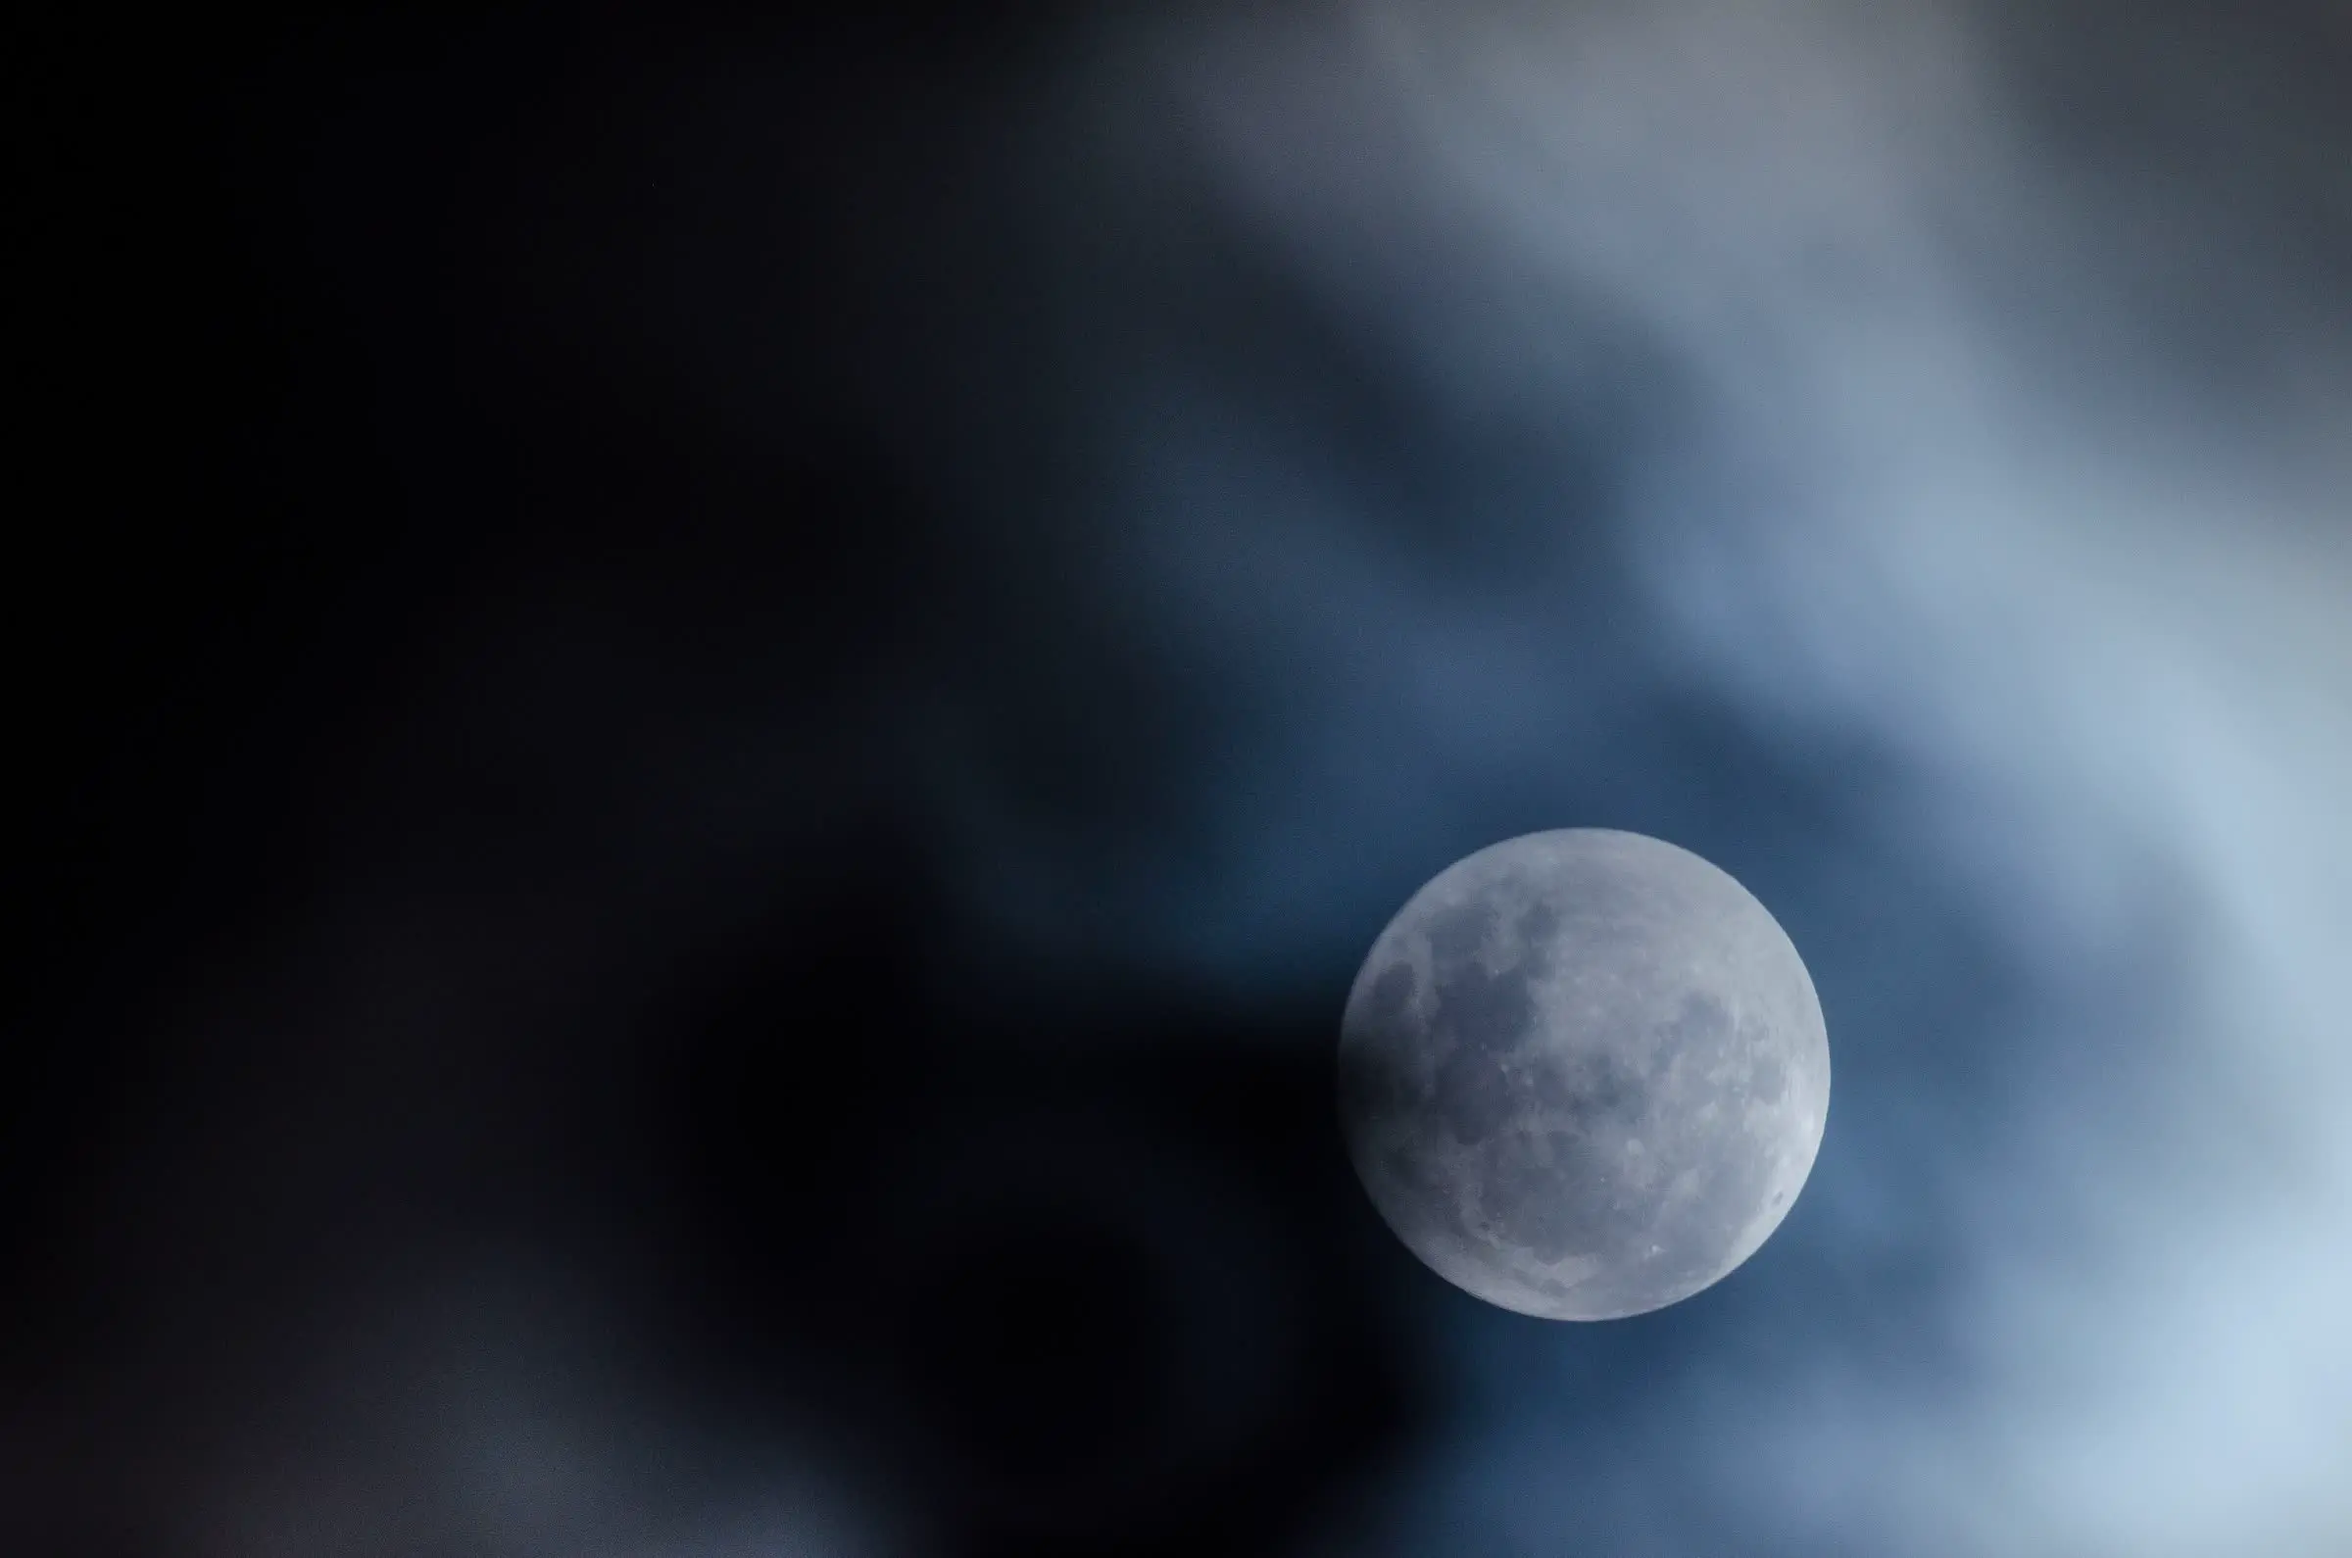
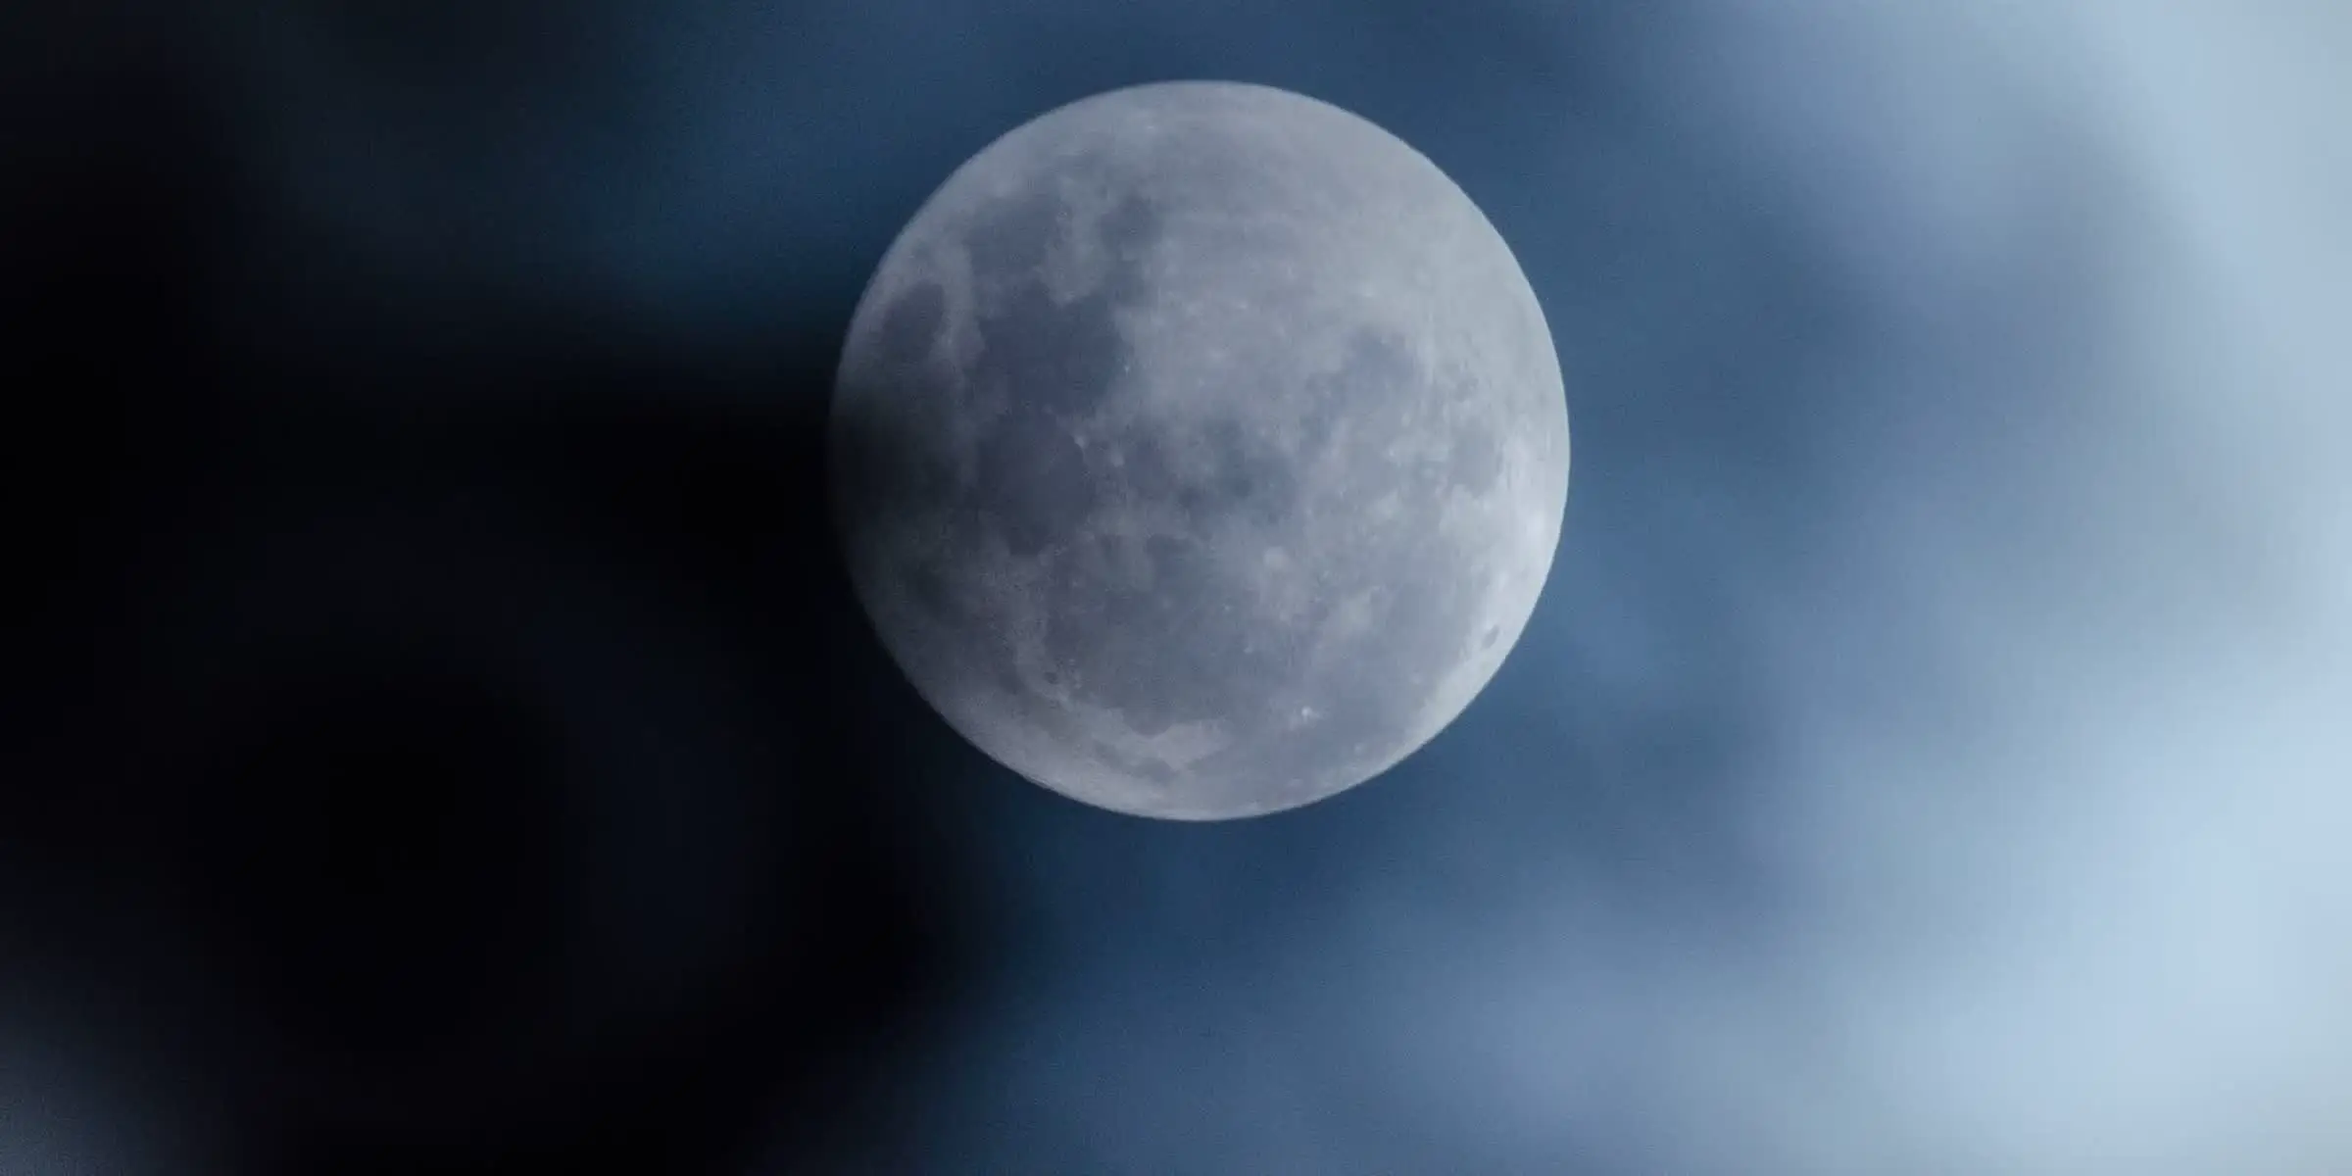
Reframe the night-sky band so the full moon stays visible
Crop the CC0 photo around the moon and clouds, and lighten the
flat overlay so the desktop band is not a black strip.

diff --git a/nollaushetki/index.html b/nollaushetki/index.html
@@ -141,9 +141,9 @@
   .tk-veil { position: absolute; inset: 0; }
   .tk-sky { z-index: 0; }
   .tk-sky picture,
-  .tk-sky img { display: block; width: 100%; height: 100%; }
-  .tk-sky img { object-fit: cover; object-position: 70% 55%; }
-  .tk-veil { z-index: 1; background: rgba(8, 12, 22, 0.42); }
+  .tk-sky img { display: block; width: 100%; height: 100%; max-width: none; }
+  .tk-sky img { object-fit: cover; object-position: 58% 42%; }
+  .tk-veil { z-index: 1; background: rgba(8, 12, 22, 0.28); }
   .tk-wrap {
     position: relative;
     z-index: 2;
@@ -256,7 +256,7 @@
   <div class="tk-sky" aria-hidden="true">
     <picture>
       <source type="image/webp" srcset="/kuvat/taysikuu-yo.webp">
-      <img src="/kuvat/taysikuu-yo.jpg" alt="" width="2400" height="1590" decoding="async">
+      <img src="/kuvat/taysikuu-yo.jpg" alt="" width="2400" height="1200" decoding="async">
     </picture>
   </div>
   <div class="tk-veil" aria-hidden="true"></div>

diff --git a/index.html b/index.html
@@ -224,9 +224,9 @@
   .tk-veil { position: absolute; inset: 0; }
   .tk-sky { z-index: 0; }
   .tk-sky picture,
-  .tk-sky img { display: block; width: 100%; height: 100%; }
-  .tk-sky img { object-fit: cover; object-position: 70% 55%; }
-  .tk-veil { z-index: 1; background: rgba(8, 12, 22, 0.42); }
+  .tk-sky img { display: block; width: 100%; height: 100%; max-width: none; }
+  .tk-sky img { object-fit: cover; object-position: 58% 42%; }
+  .tk-veil { z-index: 1; background: rgba(8, 12, 22, 0.28); }
   .tk-wrap {
     position: relative;
     z-index: 2;
@@ -578,7 +578,7 @@
   <div class="tk-sky" aria-hidden="true">
     <picture>
       <source type="image/webp" srcset="kuvat/taysikuu-yo.webp">
-      <img src="kuvat/taysikuu-yo.jpg" alt="" width="2400" height="1590" decoding="async">
+      <img src="kuvat/taysikuu-yo.jpg" alt="" width="2400" height="1200" decoding="async">
     </picture>
   </div>
   <div class="tk-veil" aria-hidden="true"></div>

diff --git a/public/index.html b/public/index.html
@@ -224,9 +224,9 @@
   .tk-veil { position: absolute; inset: 0; }
   .tk-sky { z-index: 0; }
   .tk-sky picture,
-  .tk-sky img { display: block; width: 100%; height: 100%; }
-  .tk-sky img { object-fit: cover; object-position: 70% 55%; }
-  .tk-veil { z-index: 1; background: rgba(8, 12, 22, 0.42); }
+  .tk-sky img { display: block; width: 100%; height: 100%; max-width: none; }
+  .tk-sky img { object-fit: cover; object-position: 58% 42%; }
+  .tk-veil { z-index: 1; background: rgba(8, 12, 22, 0.28); }
   .tk-wrap {
     position: relative;
     z-index: 2;
@@ -578,7 +578,7 @@
   <div class="tk-sky" aria-hidden="true">
     <picture>
       <source type="image/webp" srcset="kuvat/taysikuu-yo.webp">
-      <img src="kuvat/taysikuu-yo.jpg" alt="" width="2400" height="1590" decoding="async">
+      <img src="kuvat/taysikuu-yo.jpg" alt="" width="2400" height="1200" decoding="async">
     </picture>
   </div>
   <div class="tk-veil" aria-hidden="true"></div>
